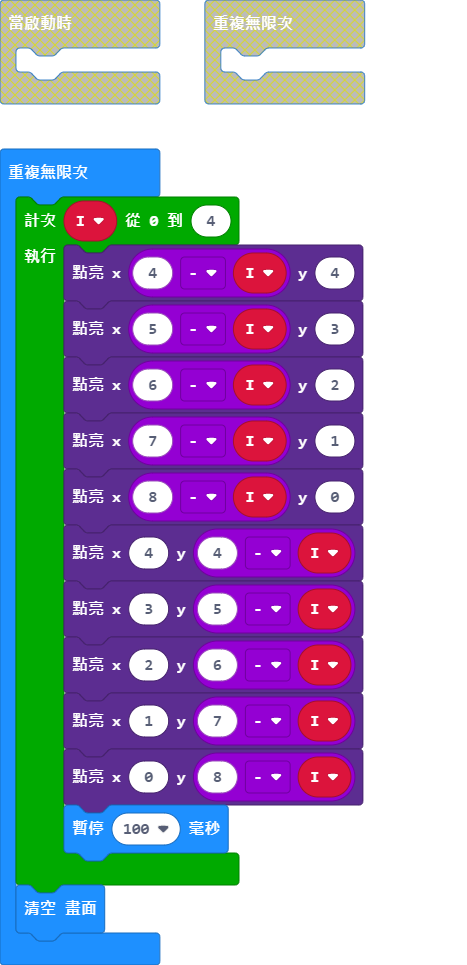
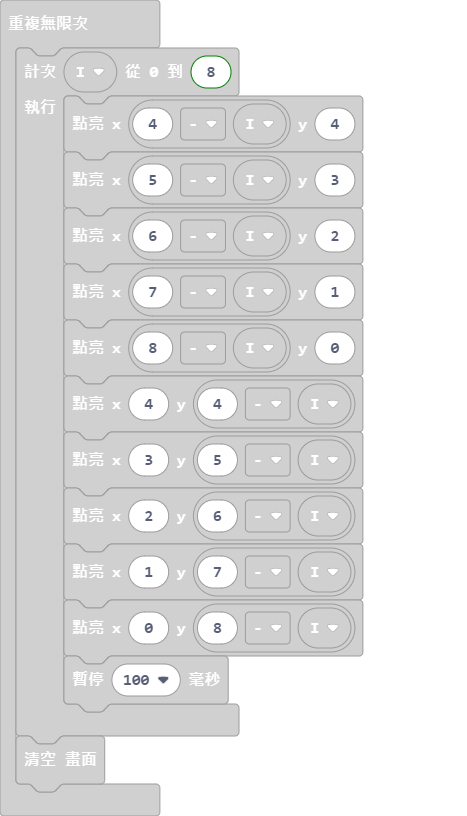
change number

diff --git a/main.ts b/main.ts
@@ -1,5 +1,5 @@
 basic.forever(function () {
-    for (let I = 0; I <= 4; I++) {
+    for (let I = 0; I <= 8; I++) {
         led.plot(4 - I, 4)
         led.plot(5 - I, 3)
         led.plot(6 - I, 2)
